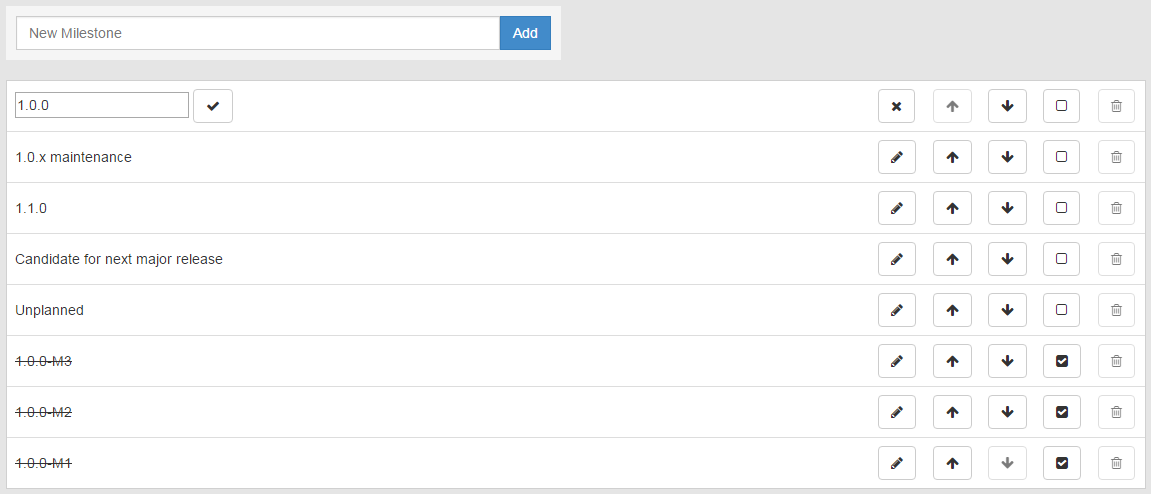
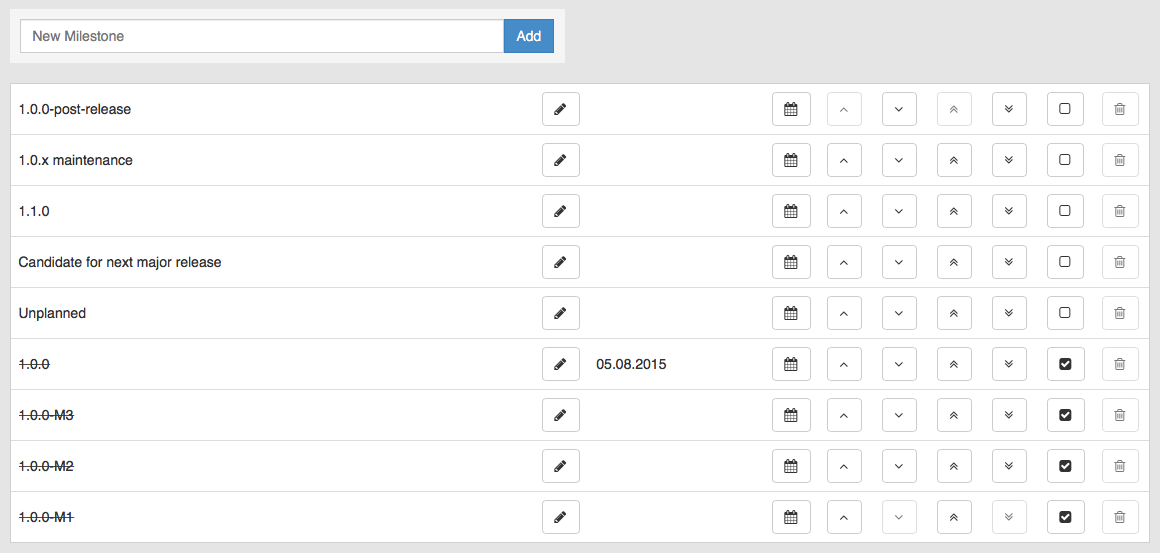
WORK-293 updated the manual

diff --git a/src/main/stampo/doc/04-user-manual/04-07-project-admin/04-07-02-manage-milestones.en.peb.md b/src/main/stampo/doc/04-user-manual/04-07-project-admin/04-07-02-manage-milestones.en.peb.md
@@ -8,7 +8,9 @@ To create a new milestone, type the name in the **New Milestone** form, and then
 
 To edit a milestone name, click <i class="fa fa-pencil"></i>, enter the new name, and save with <i class="fa fa-check"></i>. To cancel the operation, click <i class="fa fa-times"></i>.
 
-The order of the milestones can be changed using <i class="fa fa-arrow-up"></i> and <i class="fa fa-arrow-down"></i>.
+A date can be assigned to the milestone using <i class="fa fa-calendar"></i> so it'll show up in the calendar feed (ICS).
+
+The order of the milestones can be changed using <i class="fa fa-angle-up"></i>, <i class="fa fa-angle-down"></i>, <i class="fa fa-angle-double-up"></i> and <i class="fa fa-angle-double-down"></i>.
 
 A milestone can be closed clicking <i class="fa fa-square-o"></i>, and reopen using <i class="fa fa-check-square"></i>.
 
